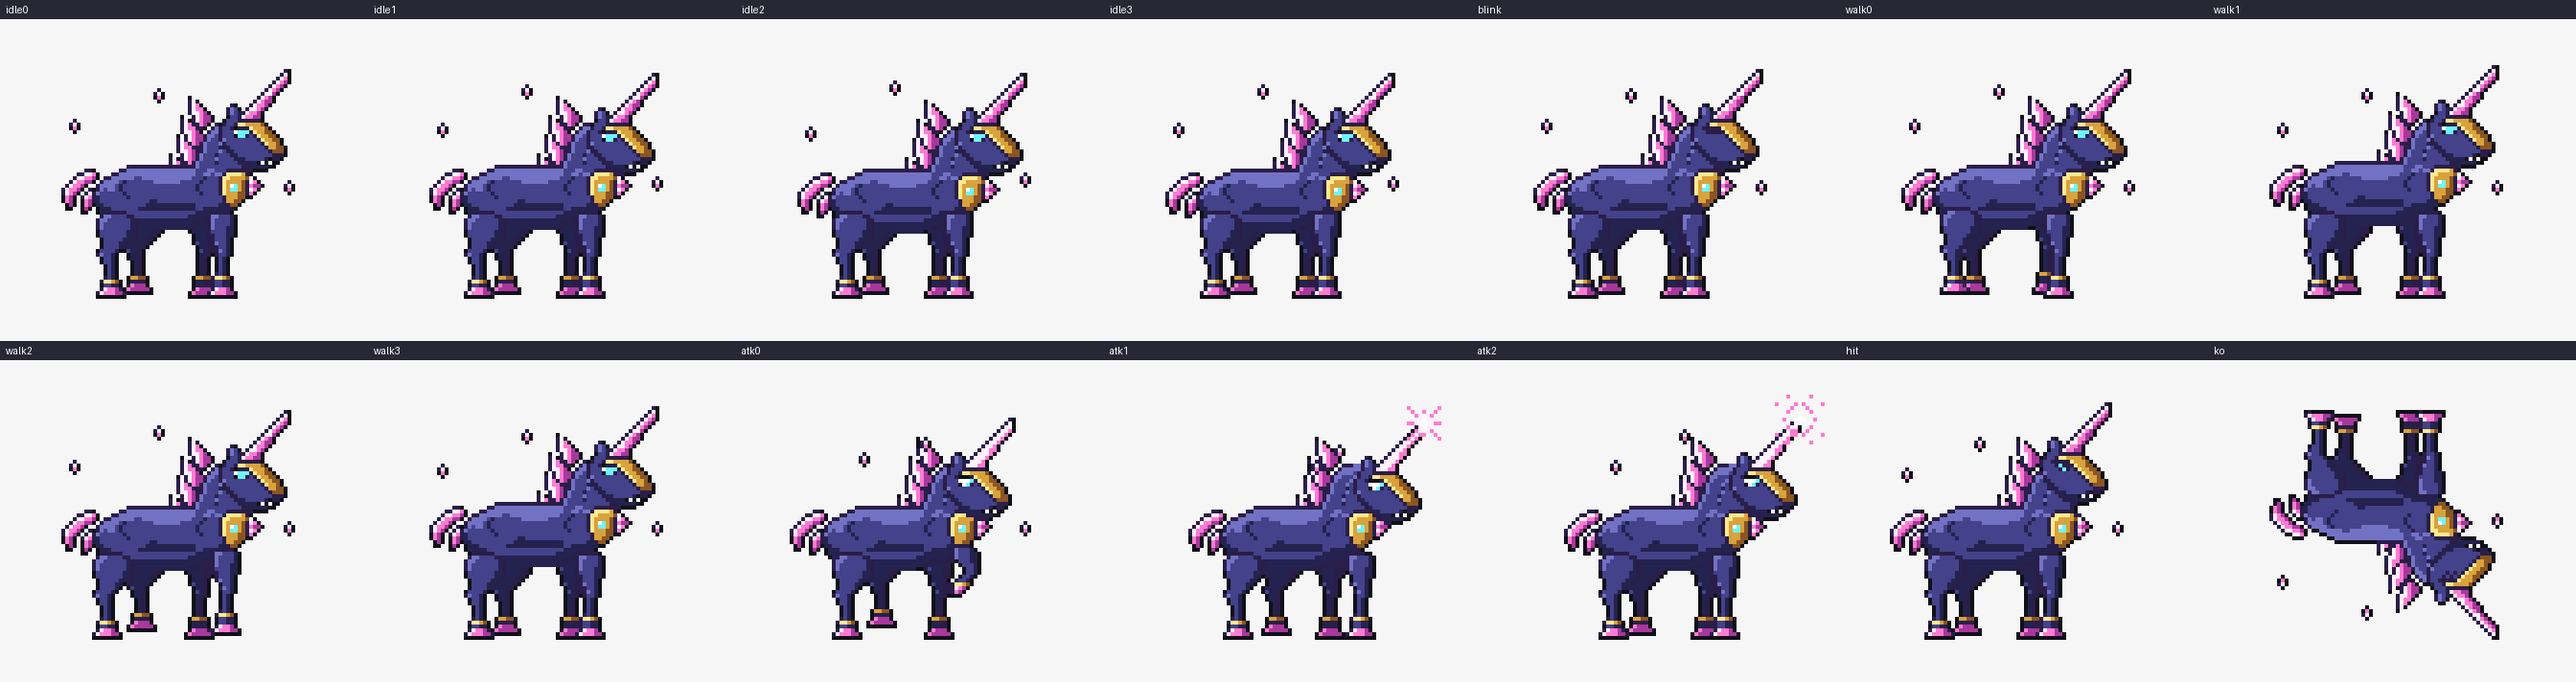
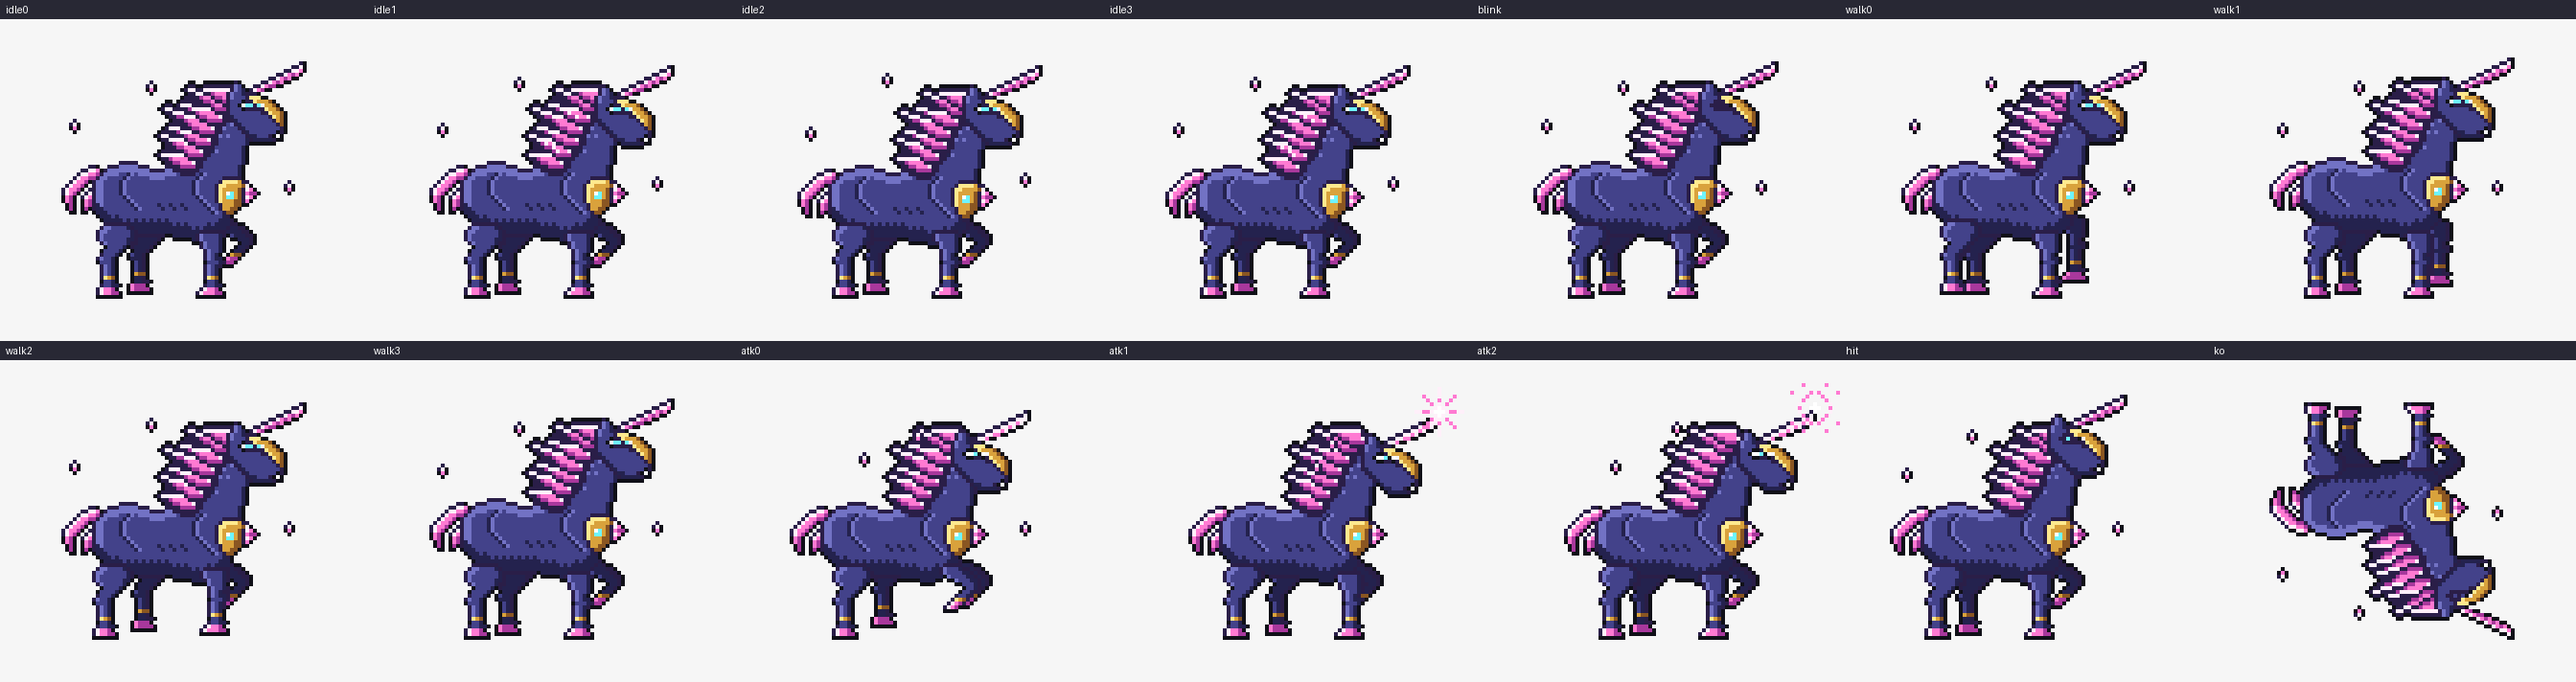
ドクマイラ・ヨロイガメ・シオガニ・キババーバー・ツノヒメを 描き直し
Claude-Session: https://claude.ai/code/session_01J9mYv3PRYW1GKv9GU2f7rQ

diff --git a/tools/monsters/tsunohime/mon.py b/tools/monsters/tsunohime/mon.py
@@ -33,94 +33,127 @@ def shade(spans, W, lit=1, dk=2):
             g[y][x] = c
     return g
 
-# ---- 胴と 首（あたりの はばを 行ごとに）----
-SPAN = [(36, 37), (33, 38), (32, 39), (31, 40), (31, 41), (30, 41), (30, 41), (30, 40), (29, 40), (29, 40), (28, 40), (28, 40),
-        (10, 40), (8, 40), (6, 39), (4, 39), (3, 39), (3, 39), (2, 39), (2, 38), (2, 37), (2, 36), (3, 36), (3, 35), (4, 33),
-        (6, 29), (8, 27), (10, 25)]
+# ---- 胴と 首：深い 胸・アーチを えがく 首（あたりは 多角形、筋肉は 手で）----
+import sys, os
+sys.path.insert(0, os.path.join(os.path.dirname(os.path.abspath(__file__)), '..', '_lib'))
+from pix import grid, poly, outline, rows_of
+BX, BY = 8, 6
+def run(g, x, y, dx, dy):
+    n = 0
+    while 0 <= y < len(g) and 0 <= x < len(g[0]) and g[y][x] != '.': n += 1; x += dx; y += dy
+    return n
 def body():
-    g = shade(SPAN, 42, lit=2, dk=3)
-    # 筋肉（肩・もも・首の すじ）を 手で
-    for (x, y) in ((30, 14), (29, 15), (28, 16), (28, 17), (29, 18), (9, 15), (8, 16), (8, 17), (9, 18), (10, 19), (34, 6), (33, 8), (33, 10),
-                   (16, 20), (17, 20), (18, 21), (22, 21), (23, 21), (36, 15), (36, 16)):
-        if g[y][x] == 'G': g[y][x] = 'H'
-    for (x, y) in ((31, 13), (30, 13), (31, 12), (10, 14), (11, 14), (6, 16), (5, 17), (35, 4), (34, 5), (20, 14), (21, 14), (22, 14)):
-        if g[y][x] == 'G': g[y][x] = 'F'
-    for x in range(13, 28):
-        if g[14][x] == 'G' and 14 <= x <= 26: g[14][x] = 'F'
-        if g[15][x] == 'G' and 17 <= x <= 23: g[15][x] = 'F'
-        if g[21][x] == 'G' and 15 <= x <= 27: g[21][x] = 'H'
-        if g[22][x] == 'G': g[22][x] = 'H'
-    for (x, y) in ((8, 14), (7, 15), (6, 16), (6, 17), (32, 12), (33, 13), (34, 13), (35, 4), (36, 3), (34, 7), (33, 9)):
-        if g[y][x] == 'G': g[y][x] = 'F'
-    return [''.join(r) for r in _ol(g)]
+    W, H = 44, 42; g = grid(W, H)
+    pts = [(9, 31), (12, 27), (18, 26), (25, 28), (32, 26), (36, 21), (39, 15), (42, 10), (46, 7), (50, 9), (50, 17), (48, 23),
+           (47, 29), (46, 35), (43, 43), (37, 46), (27, 44), (19, 44), (13, 43), (9, 38)]
+    poly(g, [(x - BX, y - BY) for x, y in pts], '#')
+    out = grid(W, H)
+    for y in range(H):
+        for x in range(W):
+            if g[y][x] == '.': continue
+            up, lf, dn, rt = run(g, x, y, 0, -1), run(g, x, y, -1, 0), run(g, x, y, 0, 1), run(g, x, y, 1, 0)
+            c = 'G'
+            if dn <= 3 or rt <= 1: c = 'H'
+            elif dn == 4 and (x + y) % 2: c = 'H'
+            if up <= 2 or (lf <= 2 and dn > 3): c = 'F'
+            out[y][x] = c
+    def P(pts, ch, hi=None):
+        for (x, y) in pts:
+            x -= BX; y -= BY
+            if 0 <= y < H and 0 <= x < W and out[y][x] != '.':
+                out[y][x] = ch
+                if hi and out[y][x + 1] == 'G': out[y][x + 1] = hi
+    # 肩の 筋肉（弧）と ひじ
+    P([(36, 28), (35, 29), (34, 30), (34, 31), (34, 32), (34, 33), (35, 34), (36, 35), (37, 36), (38, 37), (39, 38)], 'H', 'F')
+    # 首の すじ（アーチに そって）
+    P([(42, 14), (41, 16), (40, 18), (39, 20), (39, 22)], 'H', 'F')
+    P([(45, 12), (44, 15), (43, 18)], 'F')
+    # 胸の もりあがり
+    P([(44, 30), (44, 31), (45, 32)], 'F')
+    # 腰の 筋肉（もも）
+    P([(17, 28), (16, 29), (15, 30), (15, 31), (15, 32), (15, 33), (16, 34), (17, 35), (18, 36), (19, 37)], 'H', 'F')
+    P([(11, 29), (12, 28), (13, 28)], 'F')
+    # あばら（うすく）
+    P([(25, 36), (26, 37), (28, 36), (29, 37), (31, 36), (32, 37)], 'H')
+    return outline(rows_of(out))
 
-# 頭：金の 面よろい（鼻すじ）、耳は 後ろへ
+# 頭：下向きに ひいた 戦馬の 頭。金の 面よろい、耳は 後ろへ ねる
 HEAD = [
-    '...kk.............',
-    '..kFGk............',
-    '..kFGHk...........',
-    '..kGGHkkkk........',
-    '.kGGGkSSSTkk......',
-    '.kGGkSSTTTTUk.....',
-    'kGGkkkkkSTTTUk....',
-    'kGGGGGGkkSTTUUk...',
-    'kGGGGGGGGkSTTUUk..',
-    'kFGGGGGGGGkSTTUUk.',
-    '.kGGGGGGGGGkSTTUk.',
-    '.kHGGGGGGGGGkTTUUk',
-    '..kHGGGGGGGGGkUUUk',
-    '...kHGGGGGGGGGkkHk',
-    '....kHHGGGGGkkkkk.',
-    '.....kHHHHkwkwkk..',
-    '......kkHHHHHkk...',
-    '........kkkkk.....',
+    '..kk............',
+    '.kFGk...........',
+    '.kFGHk..........',
+    'kFGGHkkkk.......',
+    'kFGGGkSSSkk.....',
+    'kGGGkkkSTTTUk...',
+    'kGGk......TTUk..',
+    'kGGGkkkkkkSTTUk.',
+    'kGGGGGGGGkkSTTUk',
+    'kHGGGGGGGGGkSTUk',
+    '.kHGGGGGGGGGkTUk',
+    '..kHGGGGGGGGGkUk',
+    '...kHGGGGGGGGGkk',
+    '....kHGGGGGGGkkk',
+    '.....kHHGGGkkwk.',
+    '......kHHHHHkkk.',
+    '.......kkkkkk...',
 ]
-EYE = ['wEEEk', 'kEEk.']
-EYE_ALT = {'blink': ['kkkkk', 'GGGG.'], 'atk0|atk1|atk2': ['wwwEk', 'kwEk.'], 'hit': ['kEkkk', 'GkEk.'], 'ko': ['kGkGk', 'GkGk.']}
-# 結晶の やり（ツノ）：ななめに 手で 打つ。らせんの きざみ つき
+EYE = ['wEEkE']
+EYE_ALT = {'blink': ['kkkkk'], 'atk0|atk1|atk2': ['wwEkw'], 'hit': ['kEkkk'], 'ko': ['kGkGk']}
+# 結晶の やり（ツノ）：前へ つき出す。らせんの きざみ つき
 HORN = [
-    '............kk',
-    '...........kCk',
-    '..........kCPk',
-    '.........kCPQk',
-    '........kCPQk.',
-    '.......kCPQk..',
-    '......kCCQk...',
-    '.....kCPQk....',
-    '....kCPQQk....',
-    '...kCPPQk.....',
-    '..kCCPQk......',
-    '.kCPPQk.......',
-    'kCPPQQk.......',
-    'kkkkkk........',
+    '.............kk',
+    '...........kkCk',
+    '.........kkCCPk',
+    '.......kkCPQPk.',
+    '.....kkCPQPkk..',
+    '...kkCPQPkk....',
+    '.kkCPQQkk......',
+    'kCPQkk.........',
+    'kkk............',
 ]
 HORN_HOT = [r.replace('P', 'C').replace('Q', 'P') for r in HORN]
-# たてがみの かわりの 結晶の とげ
-SHARD = [
-    'k......',
-    'kCk....',
-    'kCPk...',
-    'kCPPk..',
-    'kCCPQk.',
-    '.kCPQQk',
-    '.kCPQQk',
-    '..kPQk.',
-    '...kk..',
-]
-SHARD_S = ['k...', 'kCk.', 'kPQk', '.kk.']
+# 流れる 結晶の たてがみ：首の いただき（クレスト）に そって 結晶の 房を 下から 順に 重ねる。房は 後ろ上へ なびく
+CREST = [(33, 25), (35, 22), (37, 19), (38, 16), (40, 13), (42, 10), (44, 8)]
+MX, MY = 22, 0
+def mane(shine=0):
+    W, H = 28, 30; canvas = grid(W, H)
+    for i, (ax, ay) in enumerate(CREST):
+        ax -= MX; ay -= MY
+        L = 7 + (i % 2) * 2 + (2 if 2 <= i <= 4 else 0)
+        tip = (ax - L, ay - L // 2 + 1 - (i % 2))
+        g = grid(W, H)
+        poly(g, [(ax + 1, ay - 1.5), (ax + 2, ay + 2), (ax - 1, ay + 2.5), tip], '#')
+        out = [r[:] for r in g]
+        for y in range(H):
+            for x in range(W):
+                if g[y][x] == '.': continue
+                up, dn = run(g, x, y, 0, -1), run(g, x, y, 0, 1)
+                out[y][x] = 'C' if up <= 1 else 'Q' if dn <= 1 else 'P'
+        if 0 <= tip[1] < H and 0 <= tip[0] < W: out[tip[1]][tip[0]] = 'C'
+        if shine and i % 3 == shine % 3:
+            for y in range(H):
+                for x in range(W):
+                    if out[y][x] == 'P': out[y][x] = 'C'; break
+        o = outline(rows_of(out))
+        for y, r in enumerate(o[1:H + 1]):
+            for x, c in enumerate(r[1:W + 1]):
+                if c != '.': canvas[y][x] = c
+    return outline(rows_of(canvas))
+MANE = mane(); MANE2 = mane(1)
 TAIL = [
-    '......kkk.',
-    '....kkCCPk',
-    '...kCCPPQk',
-    '..kCPPQQk.',
-    '.kCPPQk...',
-    'kCPPQk.kk.',
-    'kCPQk.kCPk',
-    'kPQk.kCPQk',
-    'kPQk.kPQk.',
-    '.kQk.kPQk.',
-    '.kk..kQk..',
-    '.....kk...',
+    '.......kkk..',
+    '.....kkCCPk.',
+    '....kCCPPQk.',
+    '...kCPPQQk..',
+    '..kCPPQk....',
+    '.kCPPQk.kk..',
+    'kCPPQk.kCPk.',
+    'kCPQk.kCPQk.',
+    'kPQk.kCPQk..',
+    'kPQk.kPQk...',
+    '.kQk.kPQk...',
+    '.kQk.kQk....',
+    '..kk.kk.....',
 ]
 PLATE = [
     '..kkkkk.....',
@@ -135,72 +168,65 @@ PLATE = [
     '..kUUk......',
     '...kk.......',
 ]
+# 前足（ふんばる）：ひじ → ひざ（こぶ）→ 金の わ → 結晶の ひづめ
 FLEG = [
-    '.kkkkkk.',
-    'kFFGGGHk',
-    'kFGGGGHk',
-    'kFGGGGHk',
-    'kFGGGHHk',
-    'kGGGGHHk',
-    '.kGGGHHk',
-    '.kGGGHk.',
-    '.kFGGHk.',
-    '..kGGHk.',
-    '..kFGHk.',
-    '..kGGHk.',
-    '..kGHk..',
-    '..kGHk..',
-    '..kGHk..',
-    '..kGHk..',
-    '..kGHk..',
-    '.kSSTUk.',
-    '.kGGHHk.',
-    '.kGGHHk.',
-    '.kCPPQk.',
-    'kCPPPQQk',
-    'kkkkkkkk',
-]
-# 前足を 上げた 形（ため）
-FLEG_UP = [
-    '.kkkkk...',
-    'kFGGGHk..',
-    'kFGGGHHk.',
-    'kFGGGHHk.',
-    '.kGGGHHk.',
+    '.kkkkkk..',
+    'kFGGGGHk.',
+    'kFGGGGHk.',
+    '.kFGGGHk.',
+    '.kFGGGHk.',
+    '..kFGGHk.',
+    '..kFGHk..',
+    '..kFGHHk.',
     '..kGGGHk.',
-    '...kGGHk.',
-    '...kGGHk.',
+    '..kFGHk..',
+    '..kFGHk..',
+    '..kFGHk..',
+    '..kSTUk..',
     '..kGGHk..',
-    '.kGGHk...',
-    'kSSTUk...',
-    'kCPQk....',
-    'kPQk.....',
-    'kkk......',
+    '..kGGHHk.',
+    '.kCPPQk..',
+    'kCPPPQQk.',
+    'kkkkkkkk.',
 ]
+# 上げた 前足（ひざを 曲げて 前へ）
+FLEG_UP = [
+    '.kkkkk.....',
+    'kFGGGHkk...',
+    'kFGGGGHHk..',
+    '.kFGGGGHHk.',
+    '..kkFGGGHHk',
+    '....kkGGGHk',
+    '......kGGHk',
+    '.....kGGHk.',
+    '....kGGHk..',
+    '...kSTUk...',
+    '..kCPQk....',
+    '.kCPQk.....',
+    '.kkkk......',
+]
+# 後ろ足：もも → すね（後ろへ）→ 飛節（かかと）→ まっすぐな 管
 HLEG = [
-    '..kkkkkk...',
-    '.kFFGGGGkk.',
+    '..kkkkkkk..',
+    '.kFFGGGGHk.',
     'kFFGGGGGGHk',
     'kFGGGGGGGHk',
-    'kFGGGGGGGHk',
-    'kGGGGGGGHHk',
-    'kGGGGGGGHHk',
-    '.kGGGGGHHk.',
-    '.kGGGGHHk..',
+    'kFGGGGGGHHk',
+    '.kFGGGGGHk.',
+    '..kGGGGHk..',
     '.kGGGGHk...',
-    'kGGGGHk....',
+    '.kGGGHk....',
     'kFGGHk.....',
+    'kGGGHk.....',
+    '.kFGHk.....',
+    '.kFGHk.....',
+    '.kFGHk.....',
+    '.kSTUk.....',
     '.kGGHk.....',
-    '.kGGHk.....',
-    '..kGHk.....',
-    '..kGHk.....',
-    '..kGHk.....',
-    '..kGHk.....',
-    '.kSSTUk....',
     '.kGGHHk....',
-    '.kCPPQk....',
-    'kCPPPQQk...',
-    'kkkkkkkk...',
+    'kCPPQk.....',
+    'kCPPQQk....',
+    'kkkkkkk....',
 ]
 MOTE = ['.k.', 'kCk', 'kPk', '.k.']
 BURST = [
@@ -239,24 +265,21 @@ def dark(rows): return [''.join(DARK.get(c, c) for c in r) for r in rows]
 BODY = body()
 def layers():
     return [
-        dict(n='tail', g='tail', x=0, y=27, rows=TAIL),
-        dict(n='legHF', g='legB', x=16, y=37, rows=dark(HLEG)),
-        dict(n='legFF', g='legA', x=33, y=38, rows=dark(FLEG)),
-        dict(n='sh1', g='neck', x=33, y=8, rows=SHARD),
-        dict(n='sh2', g='neck', x=31, y=13, rows=SHARD),
-        dict(n='sh3', g='neck', x=30, y=18, rows=SHARD),
-        dict(n='sh4', g='body', x=28, y=23, rows=SHARD),
-        dict(n='body', g='body', x=7, y=15, rows=BODY),
-        dict(n='plate', g='body', x=41, y=27, rows=PLATE),
-        dict(n='legH', g='legA', x=9, y=38, rows=HLEG),
-        dict(n='legF', g='legB', x=38, y=38, rows=FLEG, alt={'atk0': FLEG_UP}),
-        dict(n='head', g='head', x=41, y=10, rows=HEAD),
-        dict(n='eye', g='head', x=45, y=17, rows=EYE, alt=EYE_ALT),
-        dict(n='horn', g='head', x=46, y=1, rows=HORN, alt={'atk0|atk1|atk2': HORN_HOT}),
-        dict(n='m1', g='m1', x=24, y=6, rows=MOTE),
+        dict(n='tail', g='tail', x=0, y=26, rows=TAIL),
+        dict(n='legHF', g='legB', x=17, y=40, rows=dark(HLEG)),
+        dict(n='legFF', g='legA', x=40, y=40, rows=dark(FLEG_UP), alt={'walk0|walk1': dark(FLEG)}),
+                dict(n='body', g='body', x=BX - 1, y=BY - 1, rows=BODY),
+        dict(n='mane', g='neck', x=MX - 1, y=MY - 1, rows=MANE, alt={'idle1|idle3': MANE2}),
+        dict(n='plate', g='body', x=40, y=29, rows=PLATE),
+        dict(n='legH', g='legA', x=9, y=41, rows=HLEG),
+        dict(n='legF', g='legB', x=35, y=43, rows=FLEG, alt={'atk0': FLEG_UP}),
+        dict(n='head', g='head', x=43, y=4, rows=HEAD),
+        dict(n='eye', g='head', x=47, y=10, rows=EYE, alt=EYE_ALT),
+        dict(n='horn', g='head', x=49, y=-1, rows=HORN, alt={'atk0|atk1|atk2': HORN_HOT}),
+        dict(n='m1', g='m1', x=22, y=4, rows=MOTE),
         dict(n='m2', g='m2', x=2, y=14, rows=MOTE),
         dict(n='m3', g='m3', x=58, y=30, rows=MOTE, not_='atk1|atk2'),
-        dict(n='burst', g='head', x=53, y=-5, rows=BURST, alt={'atk2': BURST2}, only='atk1|atk2'),
+        dict(n='burst', g='head', x=57, y=-8, rows=BURST, alt={'atk2': BURST2}, only='atk1|atk2'),
     ]
 
 FRAMES = {

diff --git a/tools/monsters/tsunohime/SETTEI.md b/tools/monsters/tsunohime/SETTEI.md
@@ -11,11 +11,11 @@
 | すみか | 夜の 高原に ある 水晶の 谷。月の 光を 角に ためる |
 
 ## 見た目
-- 夜空色（あい色）の 大きな 戦馬。胸に 金の むないた（水色の 宝石と 前へ つき出た 結晶の とげ）
-- たてがみの かわりに ピンクの 結晶の とげが 首すじに 4本 並ぶ。しっぽも 結晶の たば
-- 額から のびる 角は ねじれた 結晶の やり（らせんの きざみ）。鼻すじは 金の 面よろい
+- 夜空色（あい色）の 大きな 戦馬。首を 弓なりに まげ、深い 胸を はり、奥の 前足を 上げて ふみ鳴らす 姿。胸に 金の むないた（水色の 宝石と 前へ つき出た 結晶の とげ）
+- たてがみは 首の いただきに そって 重なる ピンクの 結晶の 房。後ろへ 流れるように なびく。しっぽも 結晶の たば
+- 額から 前へ つき出す 角は ねじれた 結晶の やり（らせんの きざみ）。鼻すじは 金の 面よろい
 - 目は 水色に 光る つり目（黒い まゆの 線の 下）。口には 小さな 牙
-- ひづめは 結晶、足首に 金の わ
+- 足は ひざ・飛節（かかと）が はっきりした 戦馬の 足。ひづめは 結晶、足首に 金の わ
 - まわりに 念力で うかぶ 結晶の かけら（エスパー）
 
 ## 色（GBA風・16色以内 → 13色）
